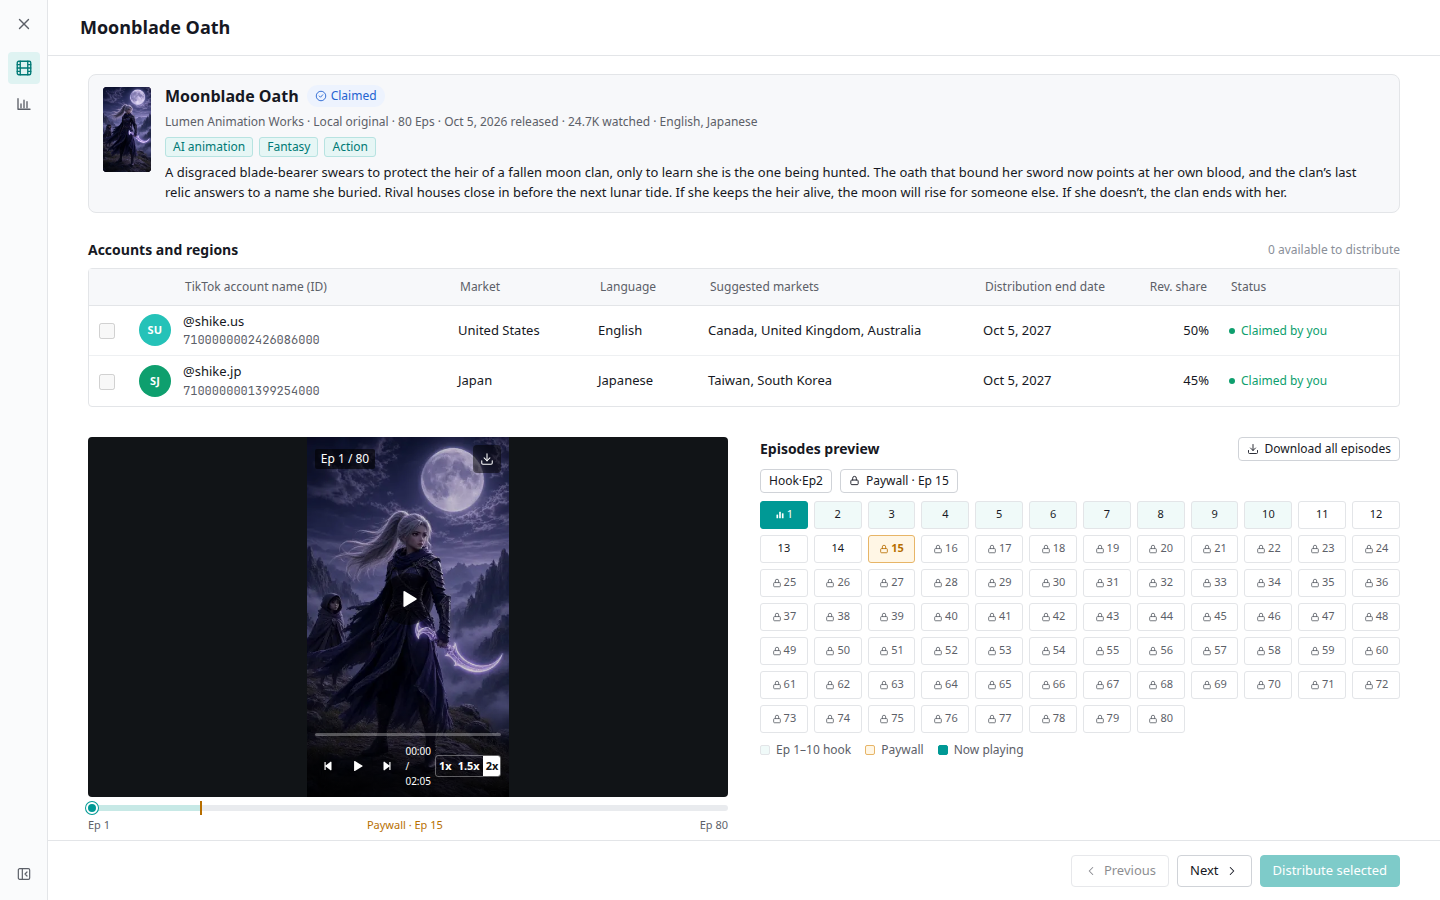
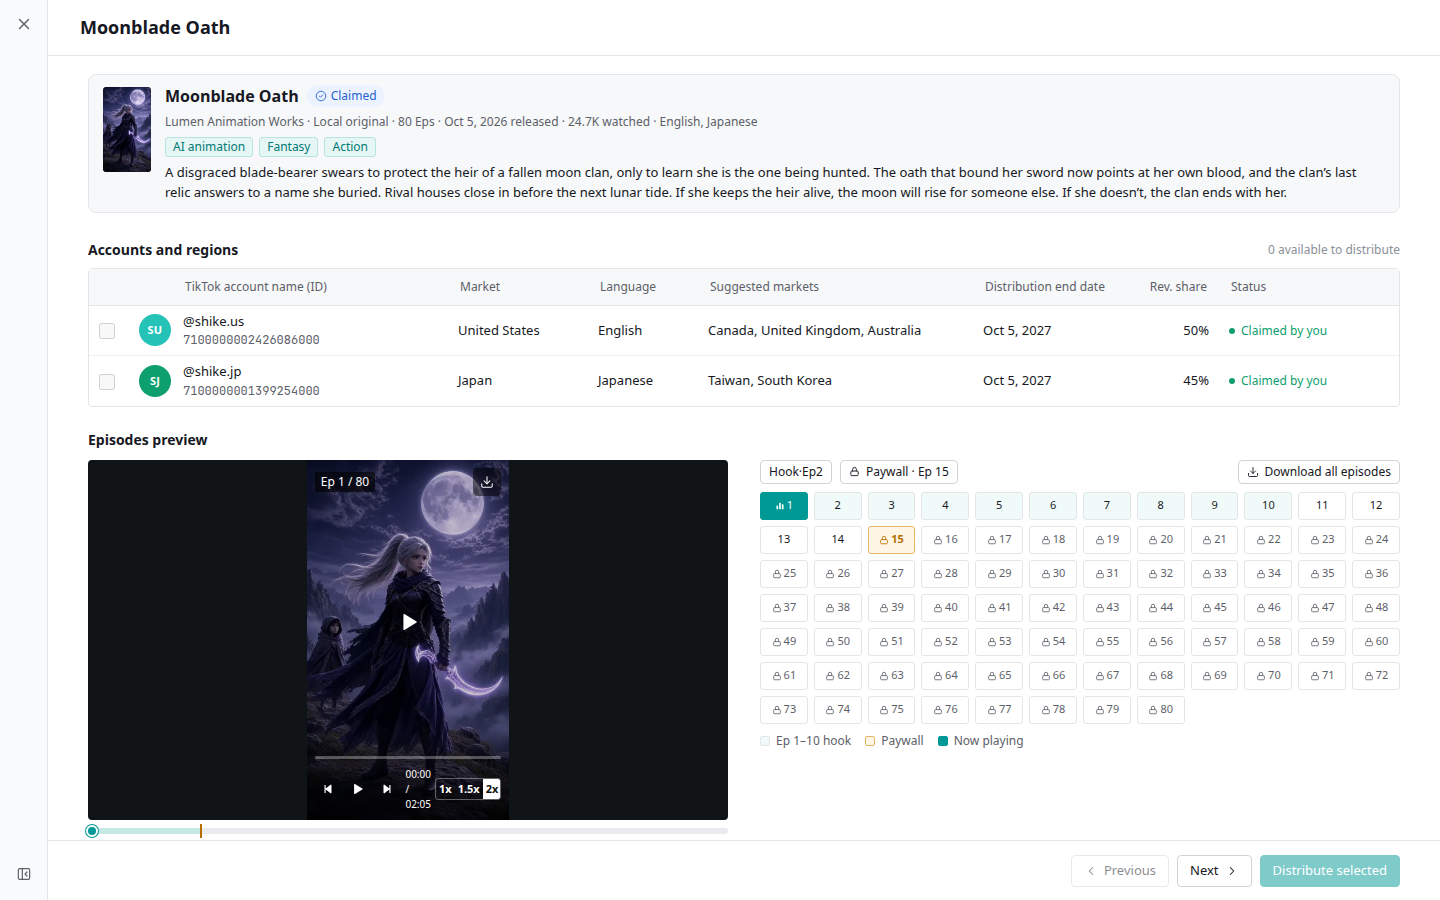
Sync prototype: episodes row title and marketplace Drama-only drawer
Episodes preview titles the player row; anchors and download align with the player top. Marketplace drama details drop the Data tab; Distribution Management keeps both icons.

Changed region(s): [[0.0625, 0.4667, 0.9688, 0.9333], [0.0, 0.0622, 0.0312, 0.0933]]

diff --git a/index.html b/index.html
@@ -378,16 +378,22 @@ button.kpi.on{box-shadow:inset 0 -2px 0 var(--primary)}
 .amount-xl{font-size:28px;font-weight:600;line-height:36px;font-variant-numeric:tabular-nums}
 
 /* Player */
-.det{display:grid;grid-template-columns:280px minmax(0,1fr);grid-template-areas:"info info" "cols cols" "player eps";gap:16px 24px;align-items:start}
-.det-l{grid-area:player;position:sticky;top:0;min-width:0}
+.det{display:grid;grid-template-columns:minmax(0,1fr);grid-template-areas:"info" "cols" "play";gap:16px;align-items:start}
+.det-play{grid-area:play;min-width:0}
+.det-play.sec{margin-top:0}
+.det-play-body{display:grid;grid-template-columns:280px minmax(0,1fr);gap:16px 24px;align-items:start}
+.det-l{min-width:0;position:sticky;top:0}
 .det-info{grid-area:info;min-width:0;display:flex;flex-direction:column;gap:16px}
-.det-eps{grid-area:eps;min-width:0}
-.det-eps.sec{margin-top:0}
+.det-eps{min-width:0}
 .det-cols{grid-area:cols;min-width:0}
 .det-cols.sec{margin-top:0}
 .det-syn{margin:0;font-size:13px;line-height:1.65;color:var(--text)}
-.drawer.drama.fs .det{grid-template-columns:minmax(0,1fr) minmax(0,1fr);grid-template-areas:"info info" "cols cols" "player eps";gap:22px 32px}
-.drawer.drama.fs .det-l,.drawer.drama.fs .det-eps{margin-top:8px;margin-bottom:8px}
+.ep-toolbar{display:flex;align-items:center;justify-content:space-between;gap:8px;min-height:24px;margin-bottom:8px}
+.ep-toolbar .ep-anchors{margin:0}
+.drawer.drama.fs .det{grid-template-columns:minmax(0,1fr);grid-template-areas:"info" "cols" "play";gap:22px}
+.drawer.drama.fs .det-play-body{grid-template-columns:minmax(0,1fr) minmax(0,1fr);gap:22px 32px}
+.drawer.drama.fs .det-play-h{margin-bottom:10px}
+.drawer.drama.fs .det-l,.drawer.drama.fs .det-eps{margin-top:0;margin-bottom:8px}
 .drawer.drama.fs .det-cols{margin-top:4px}
 .drawer.drama.fs .det-info{display:grid;grid-template-columns:48px minmax(0,1fr);grid-template-areas:"cover head" "cover facts" "cover tags" "cover syn";column-gap:14px;row-gap:6px;align-items:start;padding:10px 14px;border:1px solid var(--border);border-radius:8px;background:var(--th)}
 .det-facts{display:contents}
@@ -1475,33 +1481,41 @@ function dramaBody(ctrId){
     <div class="sec det-cols"><div class="sec-h"><h4>Accounts and regions</h4><span class="faint" style="font-size:12px">${availCount} available to distribute</span></div>
       <div class="panel"><div class="tbl-wrap"><table class="tbl"><thead><tr><th style="width:40px"></th><th style="width:44px"></th><th>TikTok account name (ID)</th><th style="width:140px">Market</th><th style="width:110px">Language</th><th class="col-extra">Suggested markets</th><th class="col-extra" style="width:150px">Distribution end date</th><th style="width:96px" class="num">Rev. share</th><th style="width:180px">Status</th></tr></thead><tbody>${rows}</tbody></table></div></div>
     </div>
-    <div class="det-l">
-      <div class="player-stage">
-      <div class="player ${PL.playing ? 'playing' : ''}" id="player">
-        ${poster(ctrId)}<img class="pl-frame" id="pl-frame" src="${frameSrc(ctrId, (PL.ep - 1) % MEDIA[ctrId][1] + 1)}" alt=""><div class="pl-dim"></div>
-        <div class="pl-top"><span class="tag dark" id="pl-ep">Ep ${PL.ep} / ${N}</span>
-          <span class="pl-actions"><span class="tag warn" id="pl-lock" style="${PL.ep >= pw ? '' : 'display:none'}">${ic('lock', 10)}Paid episode</span>
-            <button class="pl-dl" data-act="dl-ep" aria-label="Download this episode" title="Download this episode">${ic('download', 14)}</button></span></div>
-        <button class="pl-center" data-act="pl-toggle" aria-label="Play or pause">${ic(PL.playing ? 'pause' : 'play', 22)}</button>
-        <div class="pl-ctrl">
-          <div class="pl-bar" data-act="pl-seek" aria-label="Seek"><div class="trk"><div class="fill" id="pl-fill" style="width:${PL.t / epDur(PL.ep) * 100}%"></div></div></div>
-          <div class="pl-row">
-            <button class="pl-btn" data-act="pl-prev" aria-label="Previous episode">${ic('prev', 14)}</button>
-            <button class="pl-btn" data-act="pl-toggle" aria-label="Play or pause" id="pl-tbtn">${ic(PL.playing ? 'pause' : 'play', 14)}</button>
-            <button class="pl-btn" data-act="pl-next" aria-label="Next episode">${ic('next', 14)}</button>
-            <span class="pl-time" id="pl-time">${fmtT(PL.t)} / ${fmtT(epDur(PL.ep))}</span>
-            <span class="pl-speed">${[1, 1.5, 2].map(s => `<button class="${PL.speed === s ? 'on' : ''}" data-act="pl-speed" data-v="${s}">${s}x</button>`).join('')}</span>
+    <div class="sec det-play">
+      <div class="sec-h det-play-h"><h4>Episodes preview</h4></div>
+      <div class="det-play-body">
+        <div class="det-l">
+          <div class="player-stage">
+          <div class="player ${PL.playing ? 'playing' : ''}" id="player">
+            ${poster(ctrId)}<img class="pl-frame" id="pl-frame" src="${frameSrc(ctrId, (PL.ep - 1) % MEDIA[ctrId][1] + 1)}" alt=""><div class="pl-dim"></div>
+            <div class="pl-top"><span class="tag dark" id="pl-ep">Ep ${PL.ep} / ${N}</span>
+              <span class="pl-actions"><span class="tag warn" id="pl-lock" style="${PL.ep >= pw ? '' : 'display:none'}">${ic('lock', 10)}Paid episode</span>
+                <button class="pl-dl" data-act="dl-ep" aria-label="Download this episode" title="Download this episode">${ic('download', 14)}</button></span></div>
+            <button class="pl-center" data-act="pl-toggle" aria-label="Play or pause">${ic(PL.playing ? 'pause' : 'play', 22)}</button>
+            <div class="pl-ctrl">
+              <div class="pl-bar" data-act="pl-seek" aria-label="Seek"><div class="trk"><div class="fill" id="pl-fill" style="width:${PL.t / epDur(PL.ep) * 100}%"></div></div></div>
+              <div class="pl-row">
+                <button class="pl-btn" data-act="pl-prev" aria-label="Previous episode">${ic('prev', 14)}</button>
+                <button class="pl-btn" data-act="pl-toggle" aria-label="Play or pause" id="pl-tbtn">${ic(PL.playing ? 'pause' : 'play', 14)}</button>
+                <button class="pl-btn" data-act="pl-next" aria-label="Next episode">${ic('next', 14)}</button>
+                <span class="pl-time" id="pl-time">${fmtT(PL.t)} / ${fmtT(epDur(PL.ep))}</span>
+                <span class="pl-speed">${[1, 1.5, 2].map(s => `<button class="${PL.speed === s ? 'on' : ''}" data-act="pl-speed" data-v="${s}">${s}x</button>`).join('')}</span>
+              </div>
+            </div>
           </div>
+          </div>
+          <div class="series"><div class="trk"><div class="free" style="width:${(pw - 1) / N * 100}%"></div><div class="mark" style="left:${(pw - 1) / N * 100}%" title="Paywall"></div><div class="cur" id="pl-cur" style="left:${(PL.ep - 0.5) / N * 100}%"></div></div>
+            <div class="lbls"><span>Ep 1</span><span style="color:var(--warn)">Paywall · Ep ${pw}</span><span>Ep ${N}</span></div></div>
+        </div>
+        <div class="det-eps">
+          <div class="ep-toolbar">
+            <div class="filters ep-anchors"><button type="button" class="btn btn-xs ${PL.ep === HOOK_EP ? 'on' : ''}" data-act="pl-ep" data-ep="${HOOK_EP}" aria-pressed="${PL.ep === HOOK_EP}">Hook·Ep${HOOK_EP}</button><button type="button" class="btn btn-xs ${PL.ep === pw ? 'on' : ''}" data-act="pl-ep" data-ep="${pw}" aria-pressed="${PL.ep === pw}">${ic('lock', 11)}Paywall · Ep ${pw}</button></div>
+            <button class="btn btn-xs" data-act="dl-series">${ic('download', 12)}Download all episodes</button>
+          </div>
+          <div class="ep-grid" id="ep-grid">${eps}</div>
+          <div class="legend"><span><i style="background:#F0FAF9"></i>Ep 1–10 hook</span><span><i style="background:var(--warn-bg);border-color:#E7B567"></i>Paywall</span><span><i style="background:var(--primary);border-color:var(--primary)"></i>Now playing</span></div>
         </div>
       </div>
-      </div>
-      <div class="series"><div class="trk"><div class="free" style="width:${(pw - 1) / N * 100}%"></div><div class="mark" style="left:${(pw - 1) / N * 100}%" title="Paywall"></div><div class="cur" id="pl-cur" style="left:${(PL.ep - 0.5) / N * 100}%"></div></div>
-        <div class="lbls"><span>Ep 1</span><span style="color:var(--warn)">Paywall · Ep ${pw}</span><span>Ep ${N}</span></div></div>
-    </div>
-    <div class="sec det-eps"><div class="sec-h"><h4>Episodes preview</h4><button class="btn btn-xs" data-act="dl-series">${ic('download', 12)}Download all episodes</button></div>
-      <div class="filters ep-anchors" style="margin-bottom:8px"><button type="button" class="btn btn-xs ${PL.ep === HOOK_EP ? 'on' : ''}" data-act="pl-ep" data-ep="${HOOK_EP}" aria-pressed="${PL.ep === HOOK_EP}">Hook·Ep${HOOK_EP}</button><button type="button" class="btn btn-xs ${PL.ep === pw ? 'on' : ''}" data-act="pl-ep" data-ep="${pw}" aria-pressed="${PL.ep === pw}">${ic('lock', 11)}Paywall · Ep ${pw}</button></div>
-      <div class="ep-grid" id="ep-grid">${eps}</div>
-      <div class="legend"><span><i style="background:#F0FAF9"></i>Ep 1–10 hook</span><span><i style="background:var(--warn-bg);border-color:#E7B567"></i>Paywall</span><span><i style="background:var(--primary);border-color:var(--primary)"></i>Now playing</span></div>
     </div>
   </div>`;
   return {body, availCount};
@@ -1517,11 +1531,12 @@ function dramaDrawer(ctrId){
   const nav = dramaNeighbors(ctrId);
   const prevTip = nav.prev ? 'Previous: ' + ctrOf(nav.prev).title : nav.at < 0 ? 'Not in the current Marketplace list' : 'First drama in the current Marketplace list';
   const nextTip = nav.next ? 'Next: ' + ctrOf(nav.next).title : nav.at < 0 ? 'Not in the current Marketplace list' : 'Last drama in the current Marketplace list';
+  const fromDm = S.page === 'links' || S.page === 'dramas';
   const linked = colsOf(ctrId).map(x => x.id).find(id => linkOf(id));
-  const vtabs = [
+  const vtabs = fromDm ? [
     {label:ic('film', 18), on:true, act:'ld-tab', data:' data-tab="drama" aria-label="Drama details" title="Drama details"'},
     {label:ic('chart', 18), on:false, act: linked ? 'link-details' : 'toast', data: linked ? ` data-col="${linked}" data-tab="data" aria-label="Data details" title="Data details"` : ' data-msg="Start distribution on an account to see data details." data-type="info" aria-label="Data details" title="Data details"'}
-  ];
+  ] : [];
   return {kind:'drama', title:c.title, vtabs, vtabsLabel:'Drama details',
     body,
     footer:`<button class="btn" data-act="drama-prev" ${nav.prev ? 'data-id="' + nav.prev + '"' : 'disabled'} title="${esc(prevTip)}">${ic('chev-left', 14)}Previous</button><button class="btn" data-act="drama-next" ${nav.next ? 'data-id="' + nav.next + '"' : 'disabled'} title="${esc(nextTip)}">Next${ic('chev-right', 14)}</button>${dramaClaimFooter(availCount)}`};
